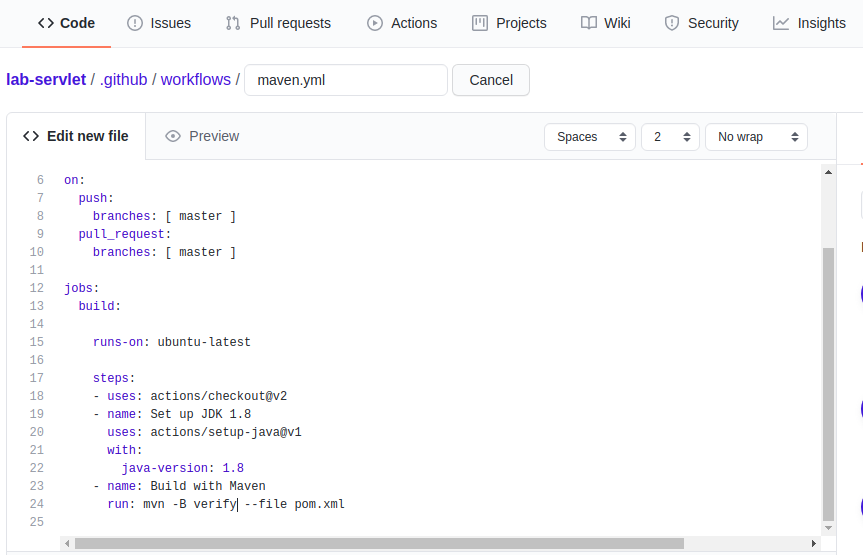
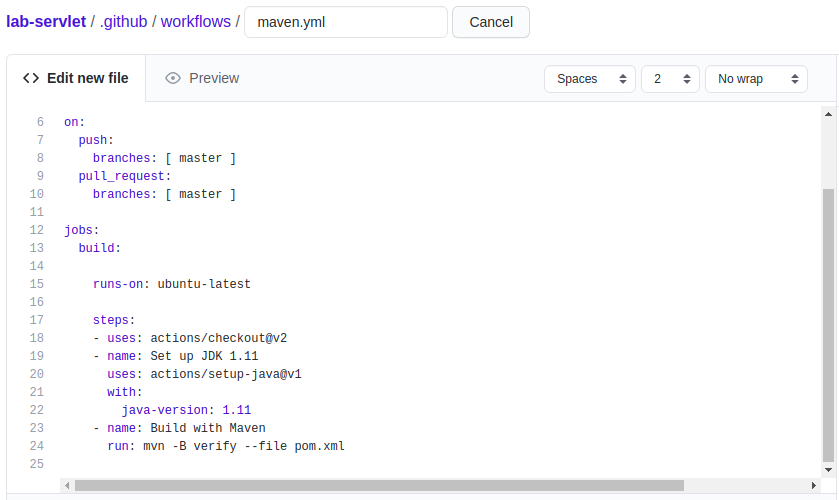
update java version on readme

diff --git a/README.md b/README.md
@@ -27,7 +27,9 @@ The structure of a `war` file is well specified; it includes a directory named `
 The purpose of the `web.xml` file is to specify the servlet class and url pattern for which the servlet will process HTTP requests. The supplied file names the servlet `RabbitCounter` and declares that the servlet class is `se325.lab02.fibonacci.RabbitCounterServlet`. It also specifies that the servlet will process HTTP requests where the domain name has a `rabbit` suffix. Where the domain name prefix is `localhost`, requests of the form `http://localhost/rabbit` would be routed through to the `RabbitCounter` servlet.
 
 #### (a) Import the project
-Import the project into your IDE, following the same procedure in the previous lab.
+Import the project into your IDE, following the same procedure in the previous lab. After you configure the parent project as a maven project, you have to import the three child projects into the workspace. In order to do this, go to import->Maven->Existing maven project. Then, select only pom files of child projects to import as shown in the figure below. 
+
+![](eclipse-import.png)
 
 #### (b) Flesh out the POM file
 As part of the Maven build process, Maven can arrange for the packaged Web service to be deployed in an *embedded* servlet container. An embedded container is one that runs in the same process as the client (integration tests in this case) that will invoke the Web application hosted by the container.
@@ -86,7 +88,7 @@ If you get really stuck with configuring the plugins, look ahead to the project 
 To build and run the project, run Maven with the `verify` goal. This will compile, package (generating the WAR file), and run the integration tests on the deployed Web service. The integration tests should run without error.
 
 #### (d) Build and run the project on GitHub
-On Github, you can setup a CI-CD workflow to automatically build and test your project when you push the code. TO create a workflow, go to workflow tab on your github repository and choose `Java with Maven`. Github will generate a maven.yml file and allow you to edit. You can edit the maven command on the last line to specify the maven goal to run. You can test this workflow by pushing the code to your repository and see the log in the workflow tab.
+On Github, you can setup a CI-CD workflow to automatically build and test your project when you push the code. TO create a workflow, go to workflow tab on your github repository and choose `Java with Maven`. Github will generate a maven.yml file and allow you to edit. You can edit the maven command on the last line to specify the maven goal to run. Also, please make sure you use Java 11 for building as maven failsafe plugin require. You can test this workflow by pushing the code to your repository and see the log in the workflow tab.
 ![](github-workflow.png)
 
 #### (e) Reflect on the project
